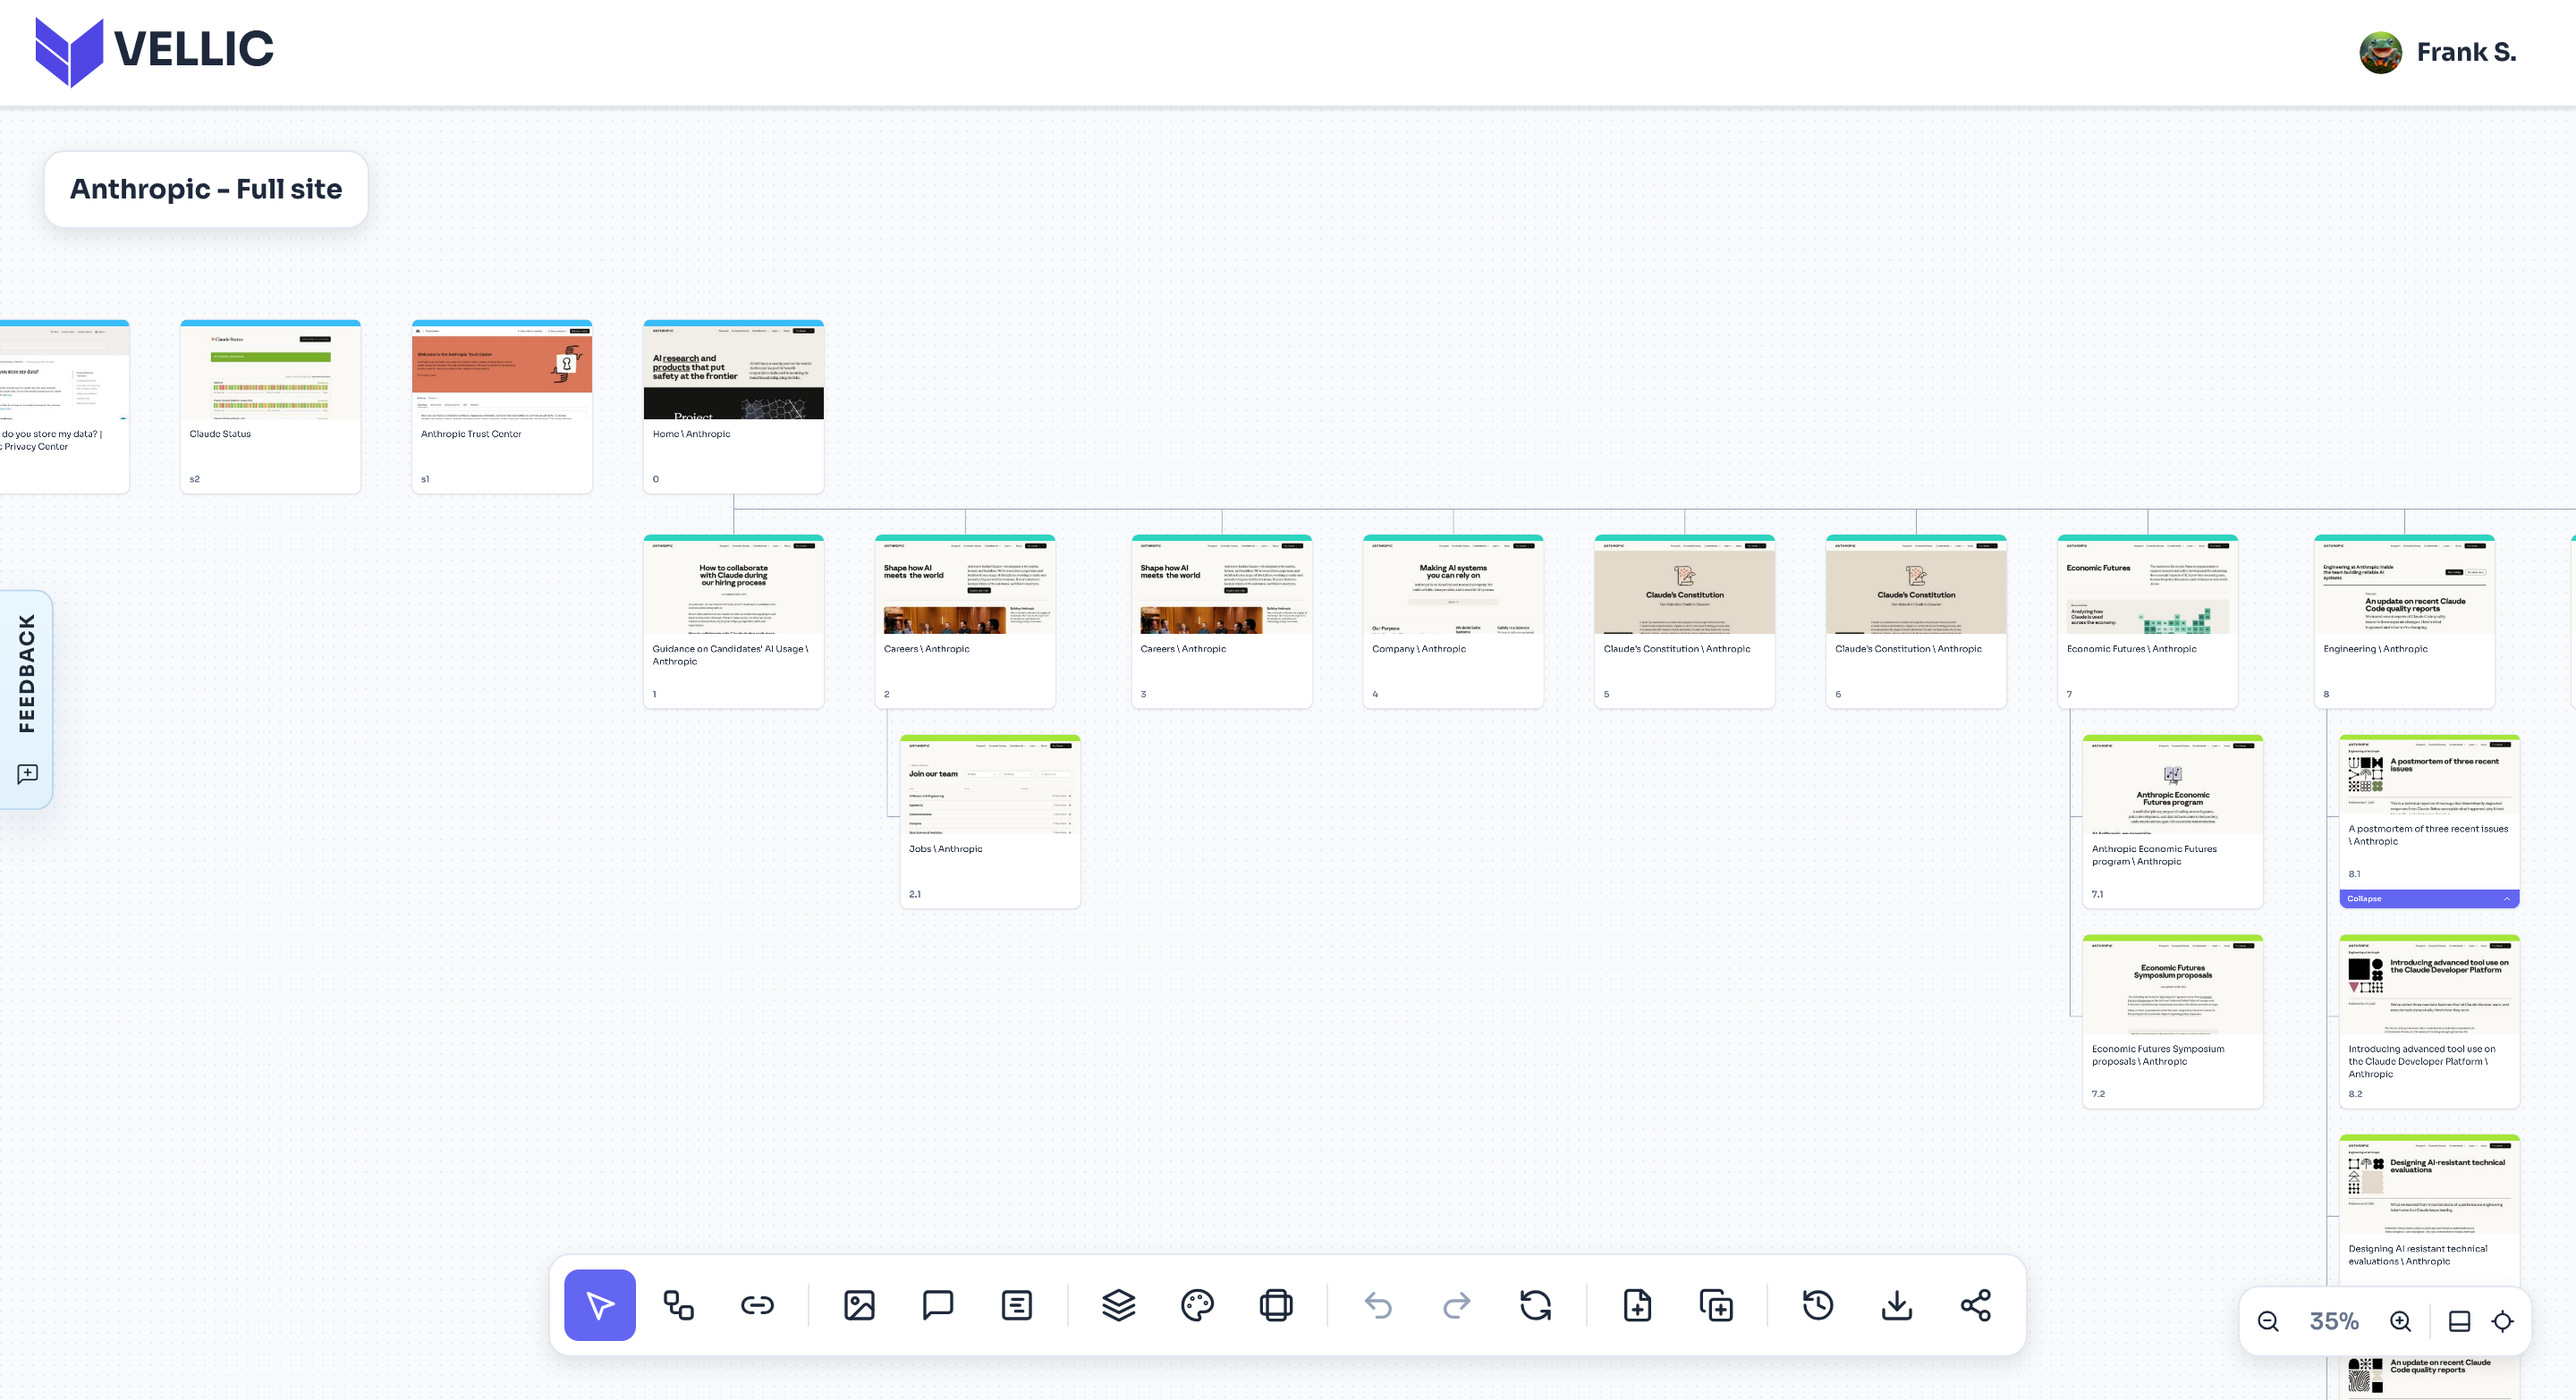
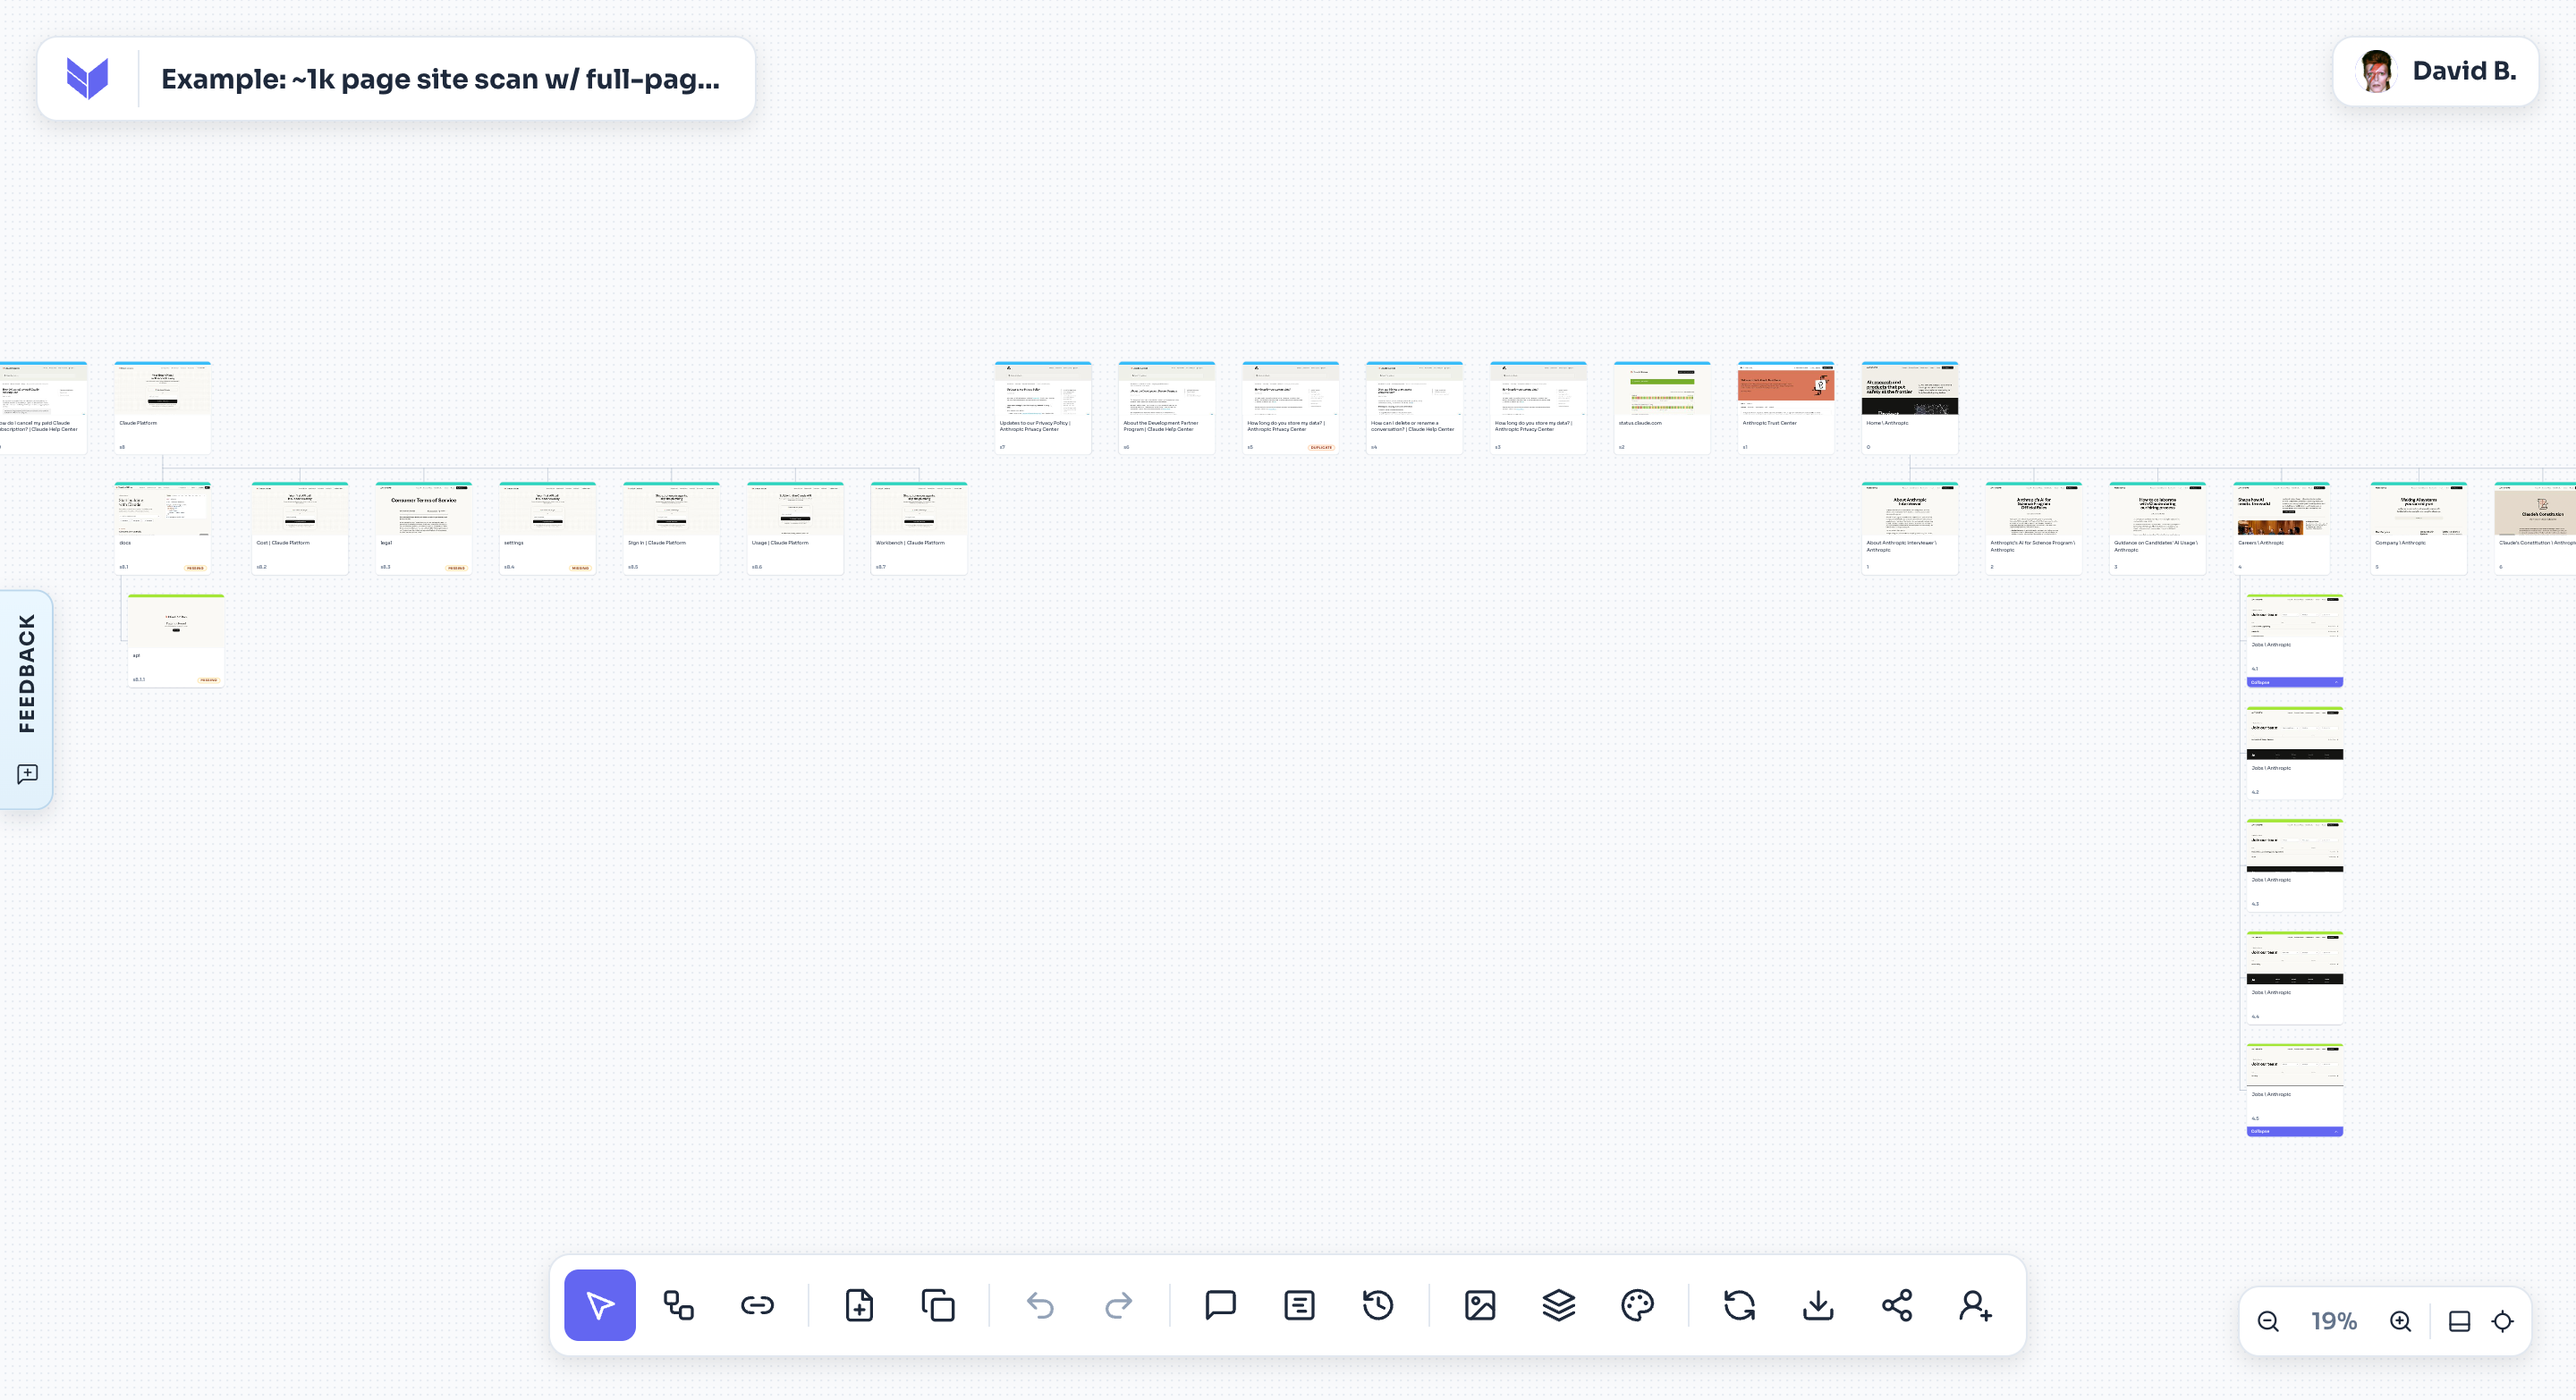
Update Vellic site examples

diff --git a/frontend/src/marketing/MarketingPreviewV2.js b/frontend/src/marketing/MarketingPreviewV2.js
@@ -607,20 +607,20 @@ const featureComparisonEnabled = false;
 
 const exampleCards = [
   {
-    title: 'Raycast main site',
-    text: 'A main-site map with nearly 5,000 pages and full-page screenshots.',
+    title: 'Large site audit',
+    text: 'Nearly 5k page site scan with thumbnails captured.',
     mobileNote: '(Go to desktop for the canvas experience)',
     image: exampleRaycastImage,
-    alt: 'Vellic example map showing the Raycast main site with many page cards and screenshots',
-    sourceUrl: 'https://www.raycast.com',
+    alt: 'Vellic example map showing a large site audit with thousands of page cards and captured thumbnails',
+    linkUrl: 'https://staging.vellic.io/share/wd5bpg',
   },
   {
-    title: 'Anthropic full site',
-    text: 'A 600+ page map with subdomains, orphans, and screenshots in the same workspace.',
+    title: 'Medium site audit',
+    text: 'Over 1,100 page scan including subdomains, orphan pages, and full-page screenshots',
     mobileNote: '(Go to desktop for the canvas experience)',
     image: exampleAnthropicImage,
-    alt: 'Vellic example map showing the Anthropic full site with subdomains, orphans, and screenshots',
-    sourceUrl: 'https://www.anthropic.com',
+    alt: 'Vellic example map showing a medium site audit with subdomains, orphan pages, and full-page screenshots',
+    linkUrl: 'https://staging.vellic.io/share/amh6jd',
   },
 ];
 
@@ -1678,6 +1678,10 @@ function MarketingPreviewV2({ route, navigateToRoute, onOpenApp = defaultOpenApp
   };
 
   const handleShowExample = (example) => {
+    if (example.linkUrl) {
+      onOpenApp(example.linkUrl);
+      return;
+    }
     if (isMarketingPhoneViewport()) {
       handleMobileScan({ url: example.sourceUrl });
       return;

diff --git a/frontend/src/marketing/MarketingPreviewV2.test.js b/frontend/src/marketing/MarketingPreviewV2.test.js
@@ -366,14 +366,26 @@ describe('MarketingPreviewV2', () => {
   });
 
   test('renders supplied product screenshot examples', () => {
-    renderAt('/examples');
+    const openApp = jest.fn();
+    renderAt('/examples', jest.fn(), { onOpenApp: openApp });
 
-    expect(container.textContent).toContain('Raycast main site');
-    expect(container.textContent).toContain('Anthropic full site');
+    expect(container.textContent).toContain('Large site audit');
+    expect(container.textContent).toContain('Nearly 5k page site scan with thumbnails captured.');
+    expect(container.textContent).toContain('Medium site audit');
+    expect(container.textContent).toContain('Over 1,100 page scan including subdomains, orphan pages, and full-page screenshots');
     expect(container.querySelector('.marketing-v2-example__stats')).toBeNull();
     expect(container.querySelectorAll('.marketing-v2-example__actions .ui-btn--type-link')).toHaveLength(2);
     expect(container.textContent).toContain('Show me');
     expect(container.querySelectorAll('.marketing-v2-example img')).toHaveLength(2);
+
+    const exampleButtons = container.querySelectorAll('.marketing-v2-example__actions .ui-btn--type-link');
+    act(() => {
+      exampleButtons[0].dispatchEvent(new MouseEvent('click', { bubbles: true, cancelable: true, button: 0 }));
+      exampleButtons[1].dispatchEvent(new MouseEvent('click', { bubbles: true, cancelable: true, button: 0 }));
+    });
+
+    expect(openApp).toHaveBeenCalledWith('https://staging.vellic.io/share/wd5bpg');
+    expect(openApp).toHaveBeenCalledWith('https://staging.vellic.io/share/amh6jd');
   });
 
   test('renders public pricing plans without the internal Solo plan', () => {
